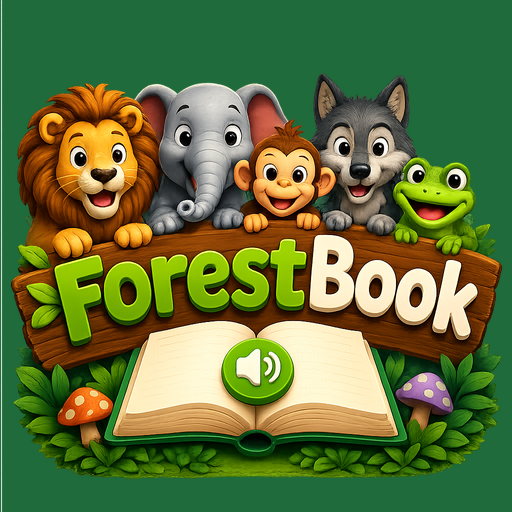
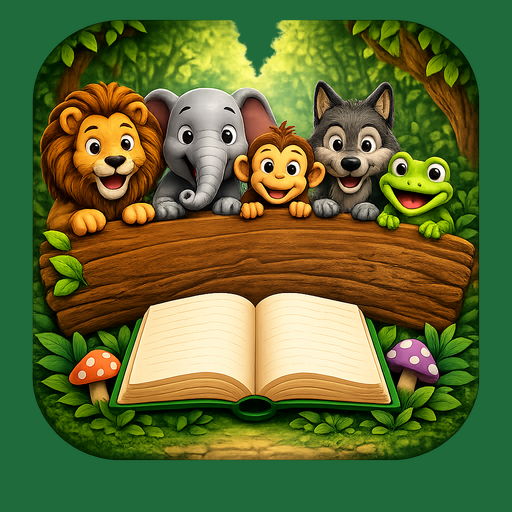
Assets novos do cliente e ajuste das janelas de dezembro
- logo.png substituido: sem texto, resolve tanto a divergencia de grafia
  entre a arte e o nome do app quanto a ilegibilidade a 48 px
- logo-simplificada.png eliminado: com o logo sem texto, uma fonte unica
  atende icone e tela inicial. build-icons.mjs passa a derivar tudo dele
- Icone adaptativo passa a ocupar 80% do foreground em vez de 66%: o logo ja
  e um quadrado arredondado, e inscreve-lo na safe zone exata criava moldura
  dupla. A prova visual agora marca o limite de 66% em tracejado
- background-anonovo.png substituido por versao em cartoon, coerente com os
  outros cinco temas e com os animais
- Janelas de dezembro conforme decisao do cliente: Natal 01-28/12,
  Ano Novo 29/12-05/01 (adjacentes, sem sobreposicao)

Registra tambem que flaicon.ico esta malformado (sharp e System.Drawing
falham ao abri-lo). Sem impacto: ja estava fora do escopo do Android.

Testes: 23/23 verdes. APK debug: 11,28 MB.

diff --git a/APK/src/app/core/services/seasonal.service.spec.ts b/APK/src/app/core/services/seasonal.service.spec.ts
@@ -49,15 +49,16 @@ describe('SeasonalService', () => {
       expect(servico.temaDaData(new Date(2026, 10, 1), 'en')).toBe('standard');
     });
 
-    it('reconhece Natal de 01 a 24/12', () => {
+    it('reconhece Natal de 01 a 28/12', () => {
       expect(servico.temaDaData(new Date(2026, 11, 1), 'pt')).toBe('natal');
-      expect(servico.temaDaData(new Date(2026, 11, 24), 'pt')).toBe('natal');
+      expect(servico.temaDaData(new Date(2026, 11, 25), 'pt')).toBe('natal');
+      expect(servico.temaDaData(new Date(2026, 11, 28), 'pt')).toBe('natal');
     });
   });
 
   describe('temaDaData — Ano Novo atravessa a virada (BACKLOG 4B.12)', () => {
-    it('assume a partir de 25/12', () => {
-      expect(servico.temaDaData(new Date(2026, 11, 25), 'pt')).toBe('anonovo');
+    it('assume a partir de 29/12', () => {
+      expect(servico.temaDaData(new Date(2026, 11, 29), 'pt')).toBe('anonovo');
       expect(servico.temaDaData(new Date(2026, 11, 31), 'pt')).toBe('anonovo');
     });
 

diff --git a/APK/src/app/core/models/tema.model.ts b/APK/src/app/core/models/tema.model.ts
@@ -60,13 +60,13 @@ export const TEMAS: readonly Tema[] = [
   {
     chave: 'natal',
     asset: 'background-natal.webp',
-    // 01-24/12: o Ano Novo assume a partir de 25/12 (janela mais curta).
-    janela: { tipo: 'fixa', inicio: { mes: 12, dia: 1 }, fim: { mes: 12, dia: 24 } },
+    // 01-28/12: o Ano Novo assume a partir de 29/12 (decisao do cliente).
+    janela: { tipo: 'fixa', inicio: { mes: 12, dia: 1 }, fim: { mes: 12, dia: 28 } },
   },
   {
     chave: 'anonovo',
     asset: 'background-anonovo.webp',
-    // Atravessa a virada do ano: 25/12 a 05/01. A comparacao trata esse caso.
-    janela: { tipo: 'fixa', inicio: { mes: 12, dia: 25 }, fim: { mes: 1, dia: 5 } },
+    // Atravessa a virada do ano: 29/12 a 05/01. A comparacao trata esse caso.
+    janela: { tipo: 'fixa', inicio: { mes: 12, dia: 29 }, fim: { mes: 1, dia: 5 } },
   },
 ];

diff --git a/DOC/ESPECIFICATION.md b/DOC/ESPECIFICATION.md
@@ -90,14 +90,27 @@ Todos os originais ficam em `PROJECT/` e **nunca são sobrescritos**.
 | `background-festejunina.png` | 1024×1536 | RGB | 2.569 KB | Tema Festa Junina |
 | `background-halloween.png` | 1024×1536 | RGB | 2.348 KB | Tema Halloween |
 | `backgroung-natal.png` | 1024×1536 | RGB | 3.174 KB | Tema Natal — ⚠ ver grafia abaixo |
-| `background-anonovo.png` | 1024×1536 | RGB | 2.755 KB | Tema Ano Novo |
-| `logo.png` | 1024×1024 | RGBA | 1.941 KB | Tela inicial (logo completo) |
-| `logo-simplificada.png` | 1024×1024 | RGBA | 1.879 KB | **Origem dos ícones do app** |
-| `flaicon.ico` | 256×256 | ICO | 170 KB | Build desktop / favicon de site |
+| `background-anonovo.png` | 1024×1535 | RGB | 2.392 KB | Tema Ano Novo (versão cartoon, 31/07/2026) |
+| `logo.png` | 1024×1024 | RGBA | 1.988 KB | **Fonte única de todo logo e ícone** |
+| `flaicon.ico` | 256×256 | ICO | 141 KB | **Não embarcado** — arquivo malformado, ver abaixo |
 | `modelo-sugerido-posicao-animais.png` | 1024×1536 | RGB | — | **Não embarcado** — guia de composição (§ 4.2) |
 
-Ambos os logos têm **canal alpha**, atendendo ao requisito do ícone adaptativo
-do Android.
+O logo tem **canal alpha real** (28% dos pixels transparentes, cantos com
+`alpha = 0`), atendendo ao requisito do ícone adaptativo do Android.
+
+> **Um único arquivo de logo** (decisão de 31/07/2026). A versão anterior era
+> acompanhada de um `logo-simplificada.png`, cuja razão de existir era a
+> legibilidade em tamanho pequeno: um logo com texto vira um borrão a 48 px.
+> **O logo atual não tem texto** — é um quadrado de cantos arredondados com os
+> cinco animais e o livro —, então sobrevive à redução e serve igualmente bem
+> como ícone e como arte da tela inicial. Uma fonte só elimina a chance de as
+> duas divergirem.
+
+> **Sobre `flaicon.ico`:** além de o `.ico` não ser suportado pelo Android,
+> **o arquivo entregue está malformado** — nem o `sharp` nem o `System.Drawing`
+> do Windows conseguem abri-lo. Como já estava fora do escopo do app, isso não
+> bloqueia nada; se um favicon de site institucional for necessário, gere-o a
+> partir do `logo.png`.
 
 #### Os seis backgrounds
 
@@ -116,12 +129,9 @@ todos os temas** — não é preciso calibrar posições por background.
 | Natal | `natal` | **Noturna** — neve, pinheiros decorados, boneco de neve, lua |
 | Ano Novo | `anonovo` | **Noturna** — fogos, balões dourados, luzinhas, cartola e estrelas |
 
-> ⚠ **O Ano Novo tem estilo visual distinto dos outros cinco.** Enquanto os
-> demais são ilustrações em estilo cartoon, `background-anonovo.png` é
-> fotorrealista. Os animais são cartoon; sobre esse fundo o contraste de estilo
-> fica perceptível. A composição em corredor, porém, é a mesma — o centro está
-> livre e o arranjo de § 4.2 se aplica sem calibração. **A avaliar com o
-> cliente:** manter assim, ou substituir por uma versão em cartoon.
+> ✅ **Ano Novo em cartoon.** A primeira versão entregue era fotorrealista e
+> destoava dos outros cinco; foi **substituída em 31/07/2026** por uma
+> ilustração no mesmo estilo dos demais, coerente com os animais.
 
 > ⚠ **Grafia do arquivo do Natal.** O arquivo foi entregue como
 > **`backgroung-natal.png`** — "backgrou**ng**", com **G** no lugar do **D**. As
@@ -131,51 +141,51 @@ todos os temas** — não é preciso calibrar posições por background.
 > não aparece (o recuo seguro de § 4.3 o ignoraria sem erro — falha silenciosa,
 > difícil de diagnosticar).
 
-> **Dois temas são cenas noturnas escuras** (Halloween e Natal), enquanto os
-> outros três são diurnos e claros. Isso tem consequência de interface — ver
-> § 4.2, "Legibilidade sobre fundos escuros".
+> **Três temas são cenas noturnas escuras** (Halloween, Natal e Ano Novo),
+> enquanto os outros três são diurnos e claros. Isso tem consequência de
+> interface — ver § 4.2, "Legibilidade sobre fundos escuros".
 
-#### Qual logo usar em cada lugar
+#### O logo em cada lugar
 
-A existência de duas versões é intencional e resolve um problema real: um logo
-com muito detalhe fica ilegível reduzido a 48×48 px na gaveta de aplicativos.
+Todos os contextos usam `logo.png`. Por não conter texto, a mesma arte serve
+tanto exibida grande quanto reduzida a 48×48 px na gaveta de aplicativos.
 
-| Contexto | Arquivo | Motivo |
-|----------|---------|--------|
-| Tela inicial, splash | `logo.png` | Exibido grande, comporta o detalhe |
-| Ícone do app (todas as densidades) | `logo-simplificada.png` | Legível em tamanho pequeno |
-| Ícone adaptativo Android | `logo-simplificada.png` | Safe zone de 66% corta as bordas |
-| Ícone da Play Store (512, sem alpha) | `logo-simplificada.png` | Consistência com o ícone instalado |
-| Favicon do WebView | `logo-simplificada.png` | 64 px |
+| Contexto | Tamanho | Observação |
+|----------|---------|------------|
+| Tela inicial, splash | 512 px | Exibido grande |
+| Ícone do app (todas as densidades) | 48 → 192 px | Verificado a 48 px: animais e livro continuam identificáveis |
+| Ícone adaptativo Android | 432 px | Ocupa 80% do foreground — ver § 3.1.1 |
+| Ícone da Play Store | 512 px | Sem alpha, achatado sobre a cor da marca |
+| Favicon do WebView | 64 px | |
 
-> **Validar antes do build:** confirmar que `logo-simplificada.png` continua
-> legível dentro da **safe zone de 66%** do ícone adaptativo — o Android corta
-> as bordas em máscaras circulares e o elemento central precisa sobreviver ao
-> corte.
-
-Com **cinco temas entregues**, o seletor de background da tela principal fica
+Com **seis temas entregues**, o seletor de background da tela principal fica
 **visível** e a seleção sazonal automática (§ 4.3) está ativa.
-
-> **Sobre `flaicon.ico`:** o formato `.ico` **não é suportado pelo Android** e
-> não será embarcado no app. Fica disponível para build desktop ou favicon de
-> site institucional. Para o WebView, o favicon usado é PNG derivado do
-> `logo-simplificada.png`.
 
 ### 3.1.1 Origem única de logo e ícones
 
-Os dois PNG de logo em `PROJECT/assets/` são a **fonte única** de todo logo e
-ícone do aplicativo. Nada é desenhado à parte: `npm run icons` deriva tudo
-deles, garantindo consistência visual.
+`PROJECT/assets/logo.png` é a **fonte única** de todo logo e ícone do
+aplicativo. Nada é desenhado à parte: `npm run icons` deriva tudo dele,
+garantindo consistência visual por construção.
 
-| Destino | Formato gerado | Fonte | Observação |
-|---------|----------------|-------|------------|
-| Ícone do app Android | PNG mipmap, 5 densidades (48→192) | simplificada | Legado + foreground adaptativo |
-| Ícone adaptativo | `ic_launcher_foreground.png` | simplificada | Safe zone de 66% |
-| Logo da tela inicial | `assets/logo.webp` (512) | `logo.png` | |
-| Favicon do WebView | `assets/icon/favicon.png` (64) | simplificada | |
-| Apple touch icon / PWA | `icon-180.png`, `icon-512.png` | simplificada | Já preparado para o iOS futuro |
-| Splash screen | `drawable/splash.png` + `splash_land.png` | `logo.png` | Logo sobre a cor sólida da marca |
-| Ícone da Play Store | `DEPLOY/store-assets/icon-512.png` | simplificada | **Sem alpha** (exigência do Google) — achatar sobre cor sólida |
+| Destino | Formato gerado | Observação |
+|---------|----------------|------------|
+| Ícone do app Android | PNG mipmap, 5 densidades (48→192) | Legado (`ic_launcher` + `ic_launcher_round`) |
+| Ícone adaptativo | `ic_launcher_foreground.png` | Ocupa **80%** do canvas — ver nota abaixo |
+| Logo da tela inicial | `assets/images/logo.webp` (512) | |
+| Favicon do WebView | `assets/icon/favicon.png` (64) | |
+| Apple touch icon / PWA | `icon-180.png`, `icon-512.png` | Já preparado para o iOS futuro |
+| Splash screen | `drawable/splash.png` + `splash_land.png` | Logo sobre a cor sólida da marca |
+| Ícone da Play Store | `DEPLOY/store-assets/icon-512.png` | **Sem alpha** (exigência do Google) — achatado sobre cor sólida |
+| Prova da safe zone | `DEPLOY/store-assets/validacao-safe-zone.png` | Máscara circular + marcação de 66% |
+
+> **Por que 80% e não 66%.** A safe zone de 66% é o mínimo que precisa
+> sobreviver às máscaras do Android. Como o logo já é um quadrado de cantos
+> arredondados, inscrevê-lo exatamente em 66% produziria uma **moldura dupla**
+> — a do próprio logo mais a do fundo adaptativo. Com 80% a arte preenche a
+> máscara, e o que fica fora da safe zone é apenas a moldura de vegetação, não
+> conteúdo essencial. O `npm run icons` gera a prova visual com o limite de
+> 66% marcado em tracejado vermelho: **nada de essencial pode ficar fora
+> dele**.
 
 ### 3.2 Animais
 
@@ -446,8 +456,8 @@ Registro desta versão:
 | `pascoa` | `background-pascoa.webp` | Páscoa −7/+1 | todos |
 | `festejunina` | `background-festejunina.webp` | 01–30/06 | **PT** |
 | `halloween` | `background-halloween.webp` | 24–31/10 | todos |
-| `natal` | `background-natal.webp` | 01–24/12 | todos |
-| `anonovo` | `background-anonovo.webp` | 25/12–05/01 | todos |
+| `natal` | `background-natal.webp` | 01–28/12 | todos |
+| `anonovo` | `background-anonovo.webp` | 29/12–05/01 | todos |
 
 > As chaves são **sem acento e sem hífen** (`pascoa`, `festejunina`),
 > acompanhando a convenção das chaves de animal (§ 3.2). O nome exibido no
@@ -489,18 +499,17 @@ janelas: `standard`.
 | Páscoa | 7 dias antes até 1 dia depois do domingo de Páscoa | Data móvel — computus | Todos |
 | Festa Junina | 1 a 30 de junho | Fixo | Somente PT |
 | Halloween | 24 a 31 de outubro | Fixo | Todos |
-| Natal | 1 a **24** de dezembro | Fixo | Todos |
-| Ano Novo | **25 de dezembro a 5 de janeiro** | Fixo, atravessa o ano | Todos |
+| Natal | 1 a **28** de dezembro | Fixo | Todos |
+| Ano Novo | **29 de dezembro a 5 de janeiro** | Fixo, atravessa o ano | Todos |
 
 Em caso de sobreposição, vale a janela de **menor duração** (a mais específica).
 Com as janelas acima, nenhuma colide: a Páscoa cai entre março e abril, e as
 demais são intervalos distintos.
 
-> **O Natal foi encurtado para 01–24/12** para dar lugar ao Ano Novo a partir
-> de 25/12. Sem esse recorte as duas janelas colidiriam em toda a última semana
-> de dezembro, e o desempate por menor duração escolheria o Ano Novo de
-> qualquer forma — melhor deixar a intenção explícita no registro do que
-> depender do desempate.
+> **O Natal vai até 28/12 e o Ano Novo começa em 29/12** (decisão do cliente,
+> 31/07/2026). As janelas são adjacentes e não se sobrepõem, o que torna o
+> desempate por menor duração desnecessário entre as duas — a intenção fica
+> explícita no registro em vez de depender de uma regra de precedência.
 
 > **A janela do Ano Novo atravessa a virada do ano** (dezembro → janeiro),
 > sendo a única desse tipo. A comparação de datas trata esse caso
@@ -680,9 +689,6 @@ Registrado para evitar ambiguidade — não faz parte da primeira entrega:
 | H | Revisão nativa da separação silábica nos 6 idiomas | Conteúdo do i18n | § 4.2 |
 | K | Ouvir a música comprimida em aparelho real (origem 30.357 Hz) | Fechamento do áudio | § 3.4 |
 | M | Nomes dos **6** temas traduzidos nos 6 idiomas | Rótulos do seletor | § 4.3 |
-| N | **Logo diz "ForestBook"; o app se chama "Florest Book"** — a arte usa a grafia inglesa correta, a ficha da loja usa a decidida em § 7. Definir qual vale | Identidade visual | § 3.1 |
-| O | **`logo-simplificada.png` não é simplificado** — é o logo completo (texto + 5 animais). A 48 px na gaveta de apps o nome fica ilegível, que é justamente o problema que os dois arquivos deveriam resolver | Legibilidade do ícone | § 3.1 |
-| P | **`background-anonovo.png` é fotorrealista**, enquanto os outros cinco são cartoon. Sobre ele, os animais destoam | Coerência visual | § 3.1 |
 
 ### Resolvidas
 
@@ -697,5 +703,8 @@ Registrado para evitar ambiguidade — não faz parte da primeira entrega:
 | I | Entrega dos backgrounds temáticos | ✅ **Entregues** — Páscoa, Festa Junina, Halloween, Natal e Ano Novo (§ 3.1) |
 | J | Validar `logo-simplificada.png` na safe zone de 66% | ✅ **Validado** — o `npm run icons` gera `DEPLOY/store-assets/validacao-safe-zone.png` com a máscara circular aplicada; o logo sobrevive ao corte. Segue de pé a pendência **O**, sobre legibilidade em tamanho pequeno |
 | L | Renomear `backgroung-natal.png` → `background-natal.png` | ✅ **Tratado no pipeline** — `build-assets.mjs` mapeia a grafia de origem e grava `background-natal.webp`. O arquivo original em `PROJECT/` fica intocado, como manda § 3 |
+| N | Logo dizia "ForestBook", divergindo do nome do app | ✅ **Novo logo entregue em 31/07/2026, sem texto** — o conflito de grafia deixa de existir na arte. O nome de exibição segue "Florest Book" (§ 7) |
+| O | `logo-simplificada.png` não era simplificado | ✅ **Arquivo eliminado** — o novo logo não tem texto e serve aos dois usos. Legibilidade a 48 px verificada por ampliação sem suavização |
+| P | `background-anonovo.png` era fotorrealista | ✅ **Substituído por versão em cartoon**, coerente com os outros cinco temas |
 | — | Definir o eixo dos temas (ambiental ou sazonal) | ✅ Os 4 assets são de festa → **sazonal por data** |
 | — | Música de fundo pesada (1.927 KB) | ✅ **Comprimida para 723 KB** (mono, 96 kbps) |

diff --git a/PROJECT/BACKLOG.md b/PROJECT/BACKLOG.md
@@ -328,10 +328,11 @@ Coisas descobertas ao construir as Fases 0–3, que não estavam previstas:
 
 | # | Achado | Situação |
 |---|--------|----------|
-| 1 | **6º background entregue:** `background-anonovo.png` estava em `PROJECT/assets/` sem constar na especificação | ✅ Registrado como tema `anonovo`, janela **25/12–05/01**. O Natal foi encurtado para **01–24/12** para não colidir. É a única janela que atravessa a virada do ano |
-| 2 | **O logo diz "ForestBook"**, com a grafia inglesa correta, enquanto o app se chama "Florest Book" (§ 7) | ⚠ *Pendência N* — **decisão sua**: qual grafia vale na loja e na tela? |
-| 3 | **`logo-simplificada.png` é idêntico em complexidade ao `logo.png`** — texto + 5 animais. Reduzido a 48 px o nome fica ilegível, que é exatamente o problema que a existência dos dois arquivos deveria evitar (§ 3.1) | ⚠ *Pendência O* — sugestão: uma versão só com um animal ou o livro, sem texto |
-| 4 | **`background-anonovo.png` é fotorrealista**; os outros cinco são cartoon, como os animais | ⚠ *Pendência P* — manter ou pedir versão em cartoon? |
+| 1 | **6º background entregue:** `background-anonovo.png` estava em `PROJECT/assets/` sem constar na especificação | ✅ Registrado como tema `anonovo`. Janelas definidas por você: **Natal 01–28/12**, **Ano Novo 29/12–05/01** — a única que atravessa a virada do ano |
+| 2 | O logo dizia "ForestBook", divergindo do nome do app | ✅ **Resolvido** — novo logo sem texto (31/07/2026); era erro de digitação na arte |
+| 3 | `logo-simplificada.png` não era simplificado | ✅ **Resolvido** — arquivo eliminado. O novo logo não tem texto, então uma fonte única atende ícone e tela inicial. Legibilidade a 48 px conferida |
+| 4 | `background-anonovo.png` era fotorrealista | ✅ **Resolvido** — substituído por versão em cartoon |
+| 4b | `flaicon.ico` **está malformado** — nem o `sharp` nem o `System.Drawing` do Windows conseguem abri-lo | ℹ Sem impacto: o `.ico` já estava fora do escopo do Android. Se precisar de favicon de site, gero do `logo.png` |
 | 5 | Grafia `backgroung-natal.png` *(pendência L)* | ✅ Resolvido **no pipeline**, sem tocar no original: `build-assets.mjs` mapeia a grafia e grava `background-natal.webp` |
 | 6 | Safe zone de 66% *(pendência J)* | ✅ Validada — `npm run icons` gera a prova com máscara circular em `DEPLOY/store-assets/validacao-safe-zone.png` |
 | 7 | O keystore `florestbook-release.jks` **já existe** na raiz do projeto | ✅ Fora do git (`.gitignore`). Falta só o `keystore.properties` com as senhas, quando for gerar o AAB |
